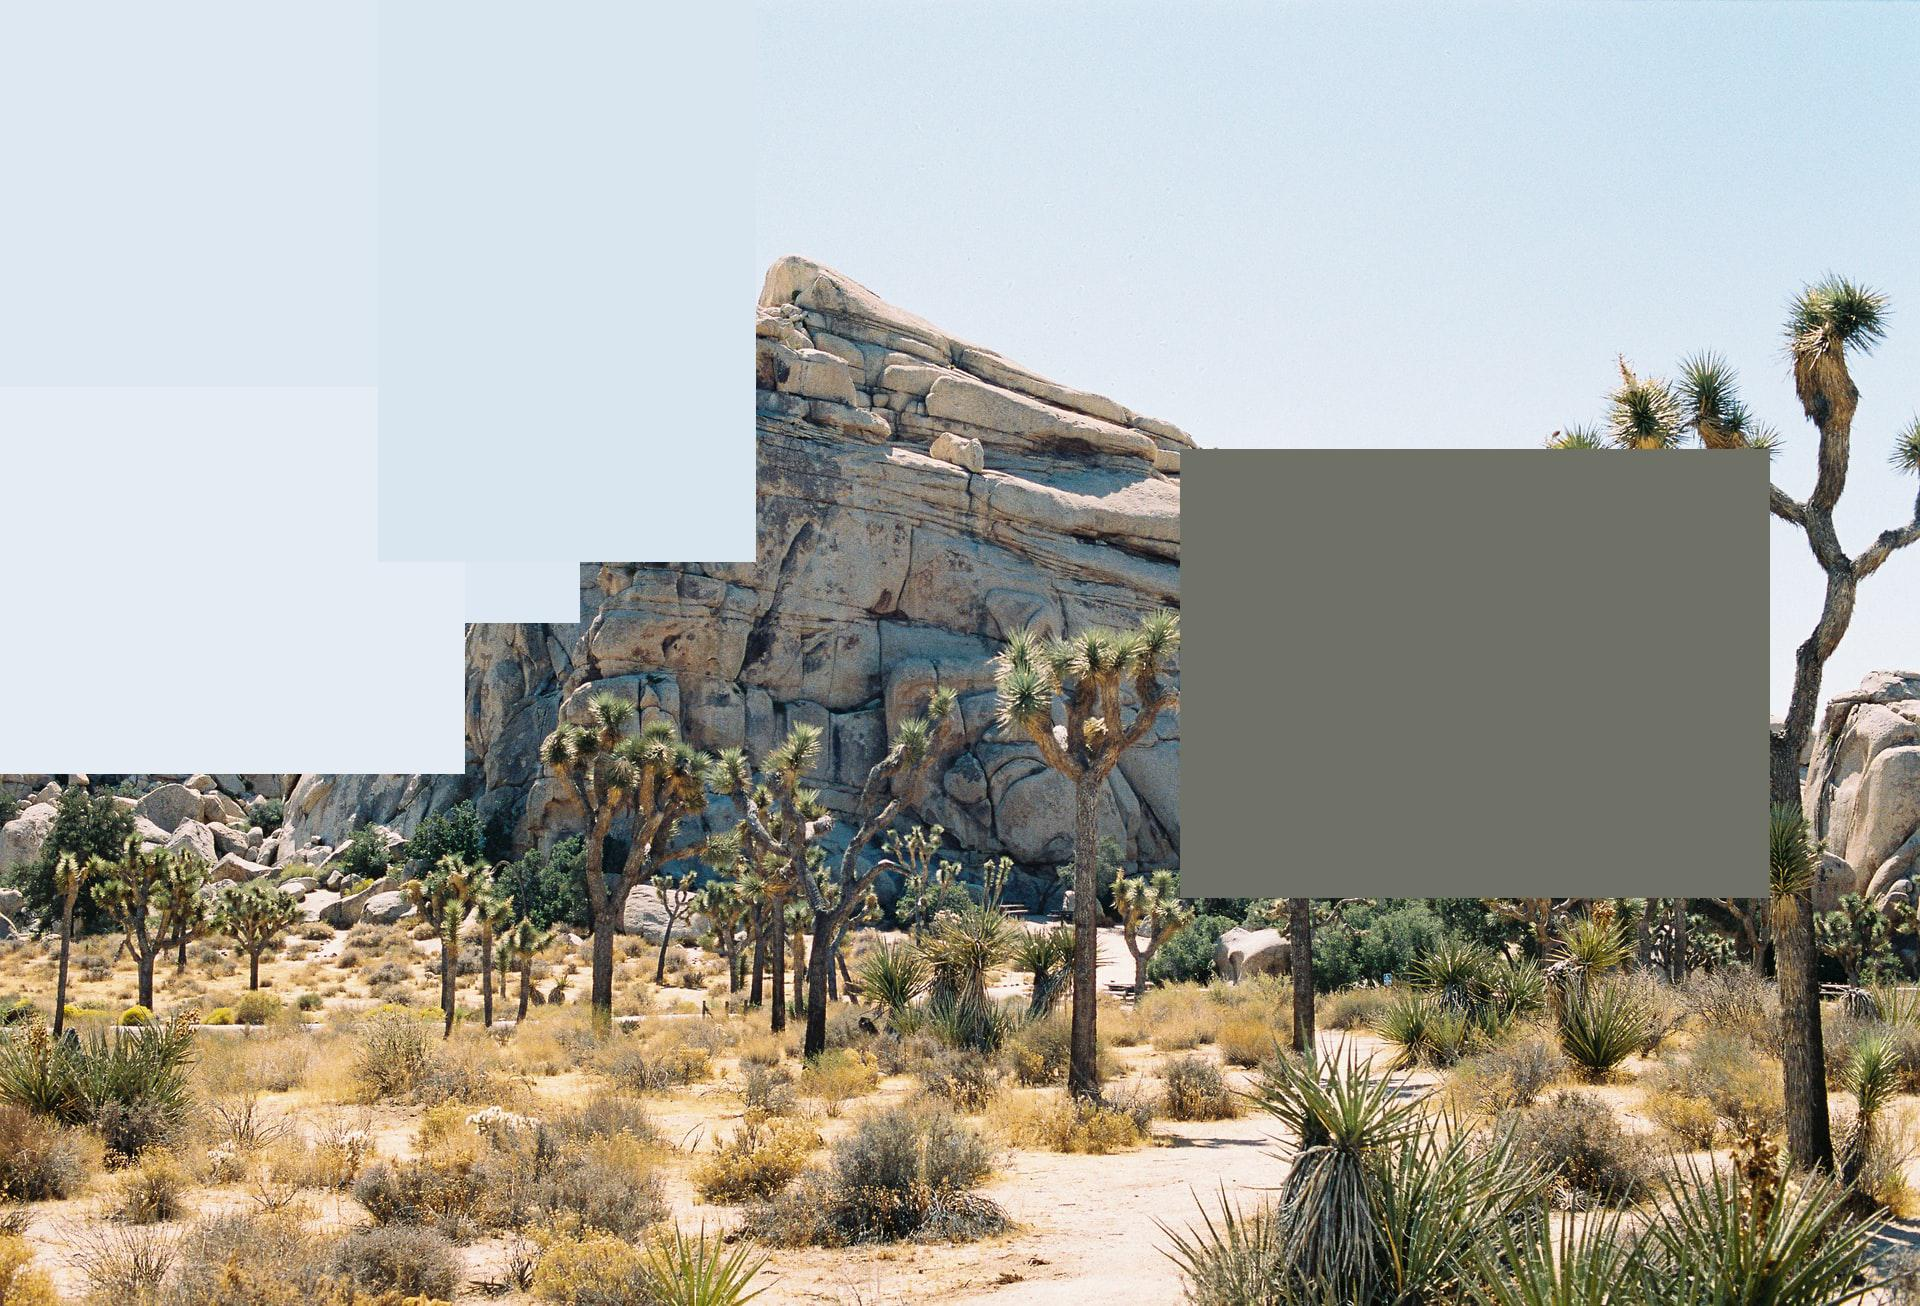
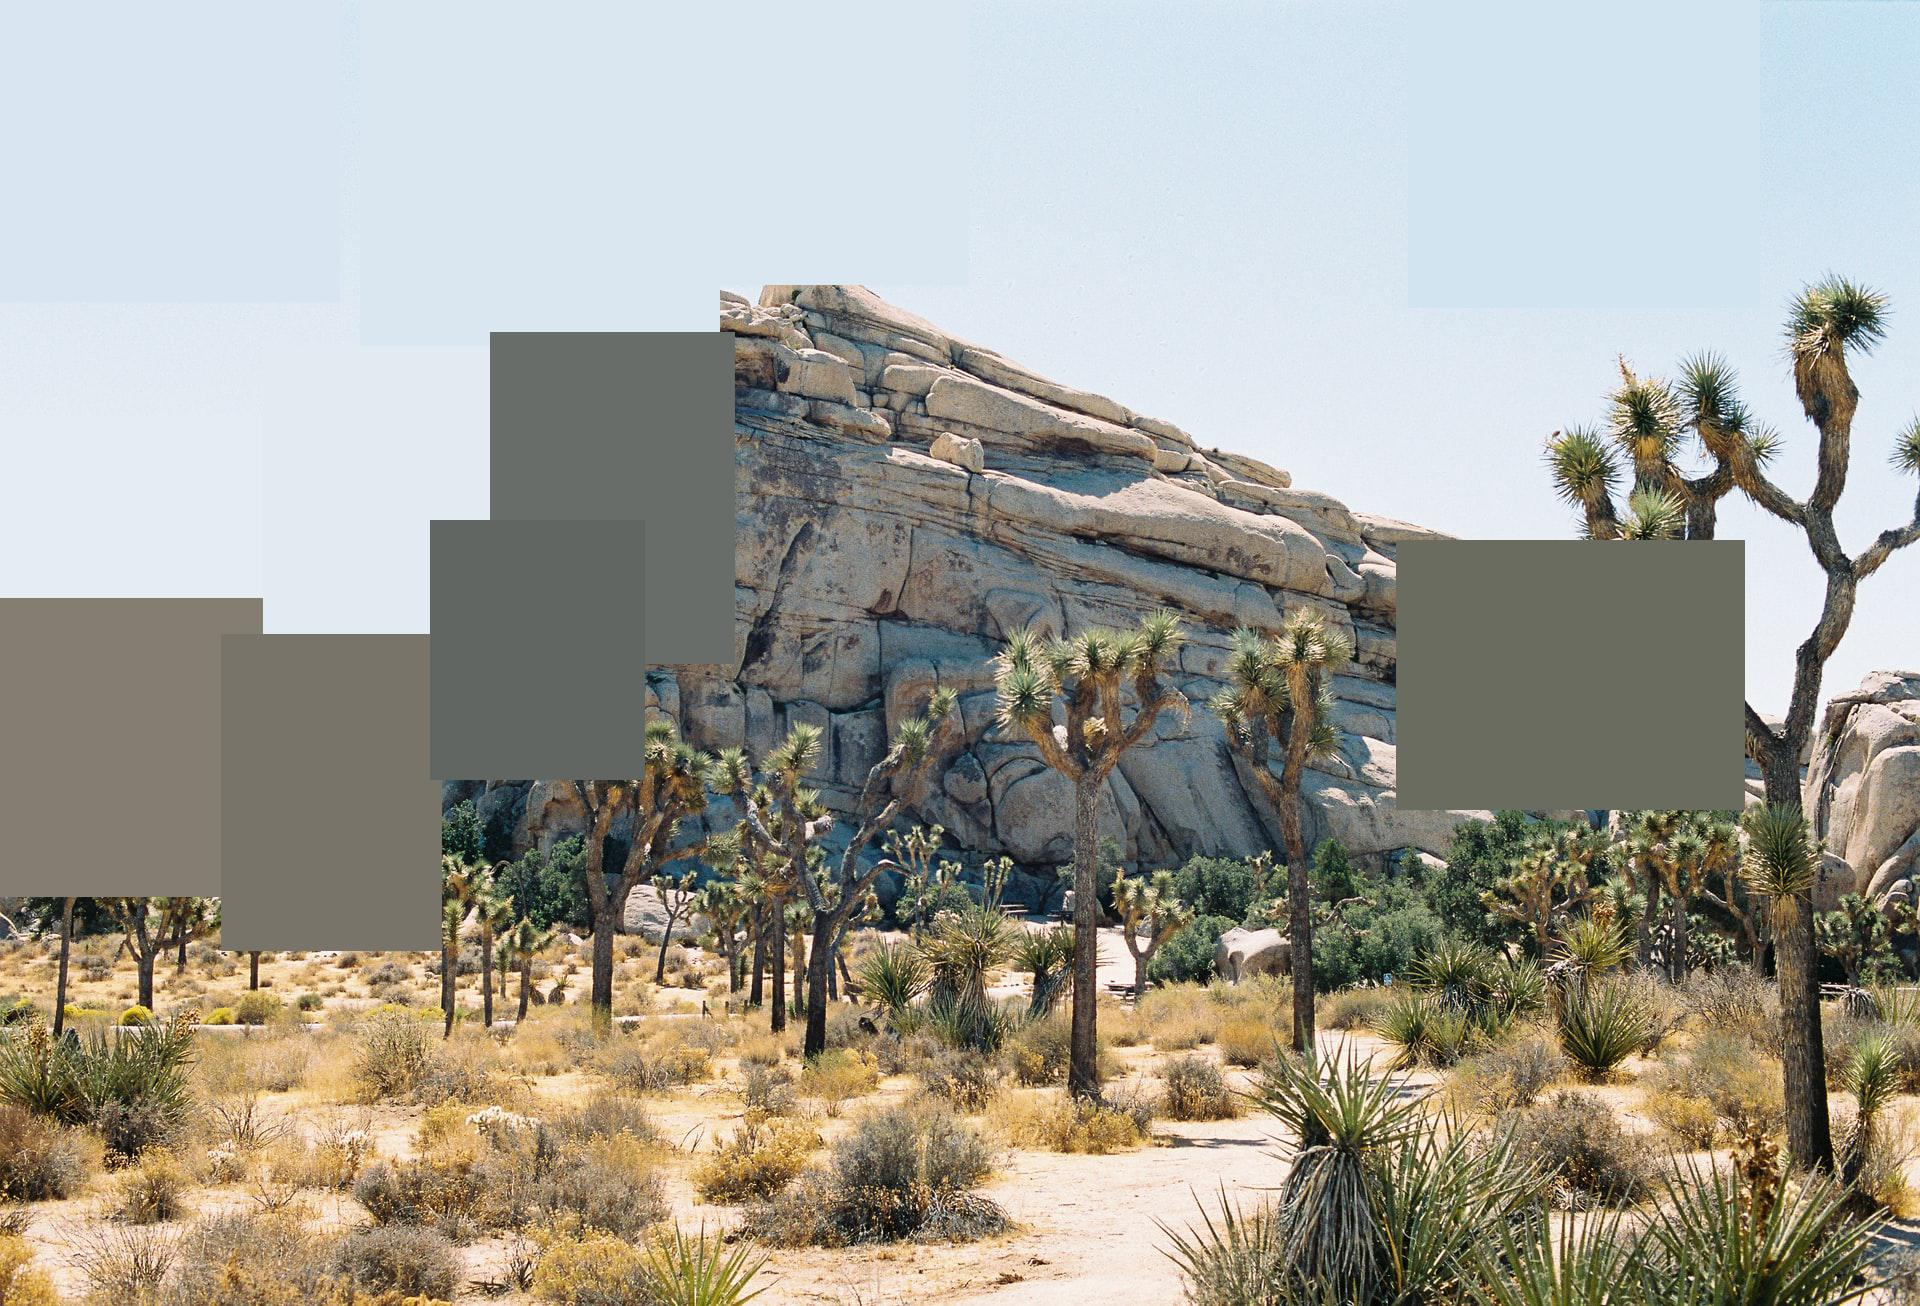
updated with arg parse and example

Changed region(s): [[0.0, 0.1838, 0.4375, 0.7351], [0.5938, 0.3369, 0.9375, 0.7044]]

diff --git a/img_generator.py b/img_generator.py
@@ -3,6 +3,20 @@ import requests
 from io import BytesIO
 import numpy as np
 from random import random
+import argparse
+import sys
+
+parser = argparse.ArgumentParser(description='Minimal example of dumping args into log file.')
+parser.add_argument('--img_url',type=str, default="https://source.unsplash.com/iXp4yp8A9Tw/1920x1306",
+                    help='Horizontal step length')
+parser.add_argument('--h_len',type=int, default=5,
+                    help='Horizontal step length')
+parser.add_argument('--v_len',type=int, default=5,
+                    help='Vertical step length')
+
+
+args = parser.parse_args()
+
 
 class Canvas:
     def __init__(self, img):
@@ -45,11 +59,15 @@ class Canvas:
 
 
 if __name__ == "__main__":
-    url = "https://source.unsplash.com/iXp4yp8A9Tw/1920x1306"
+    url = args.img_url
+    h_len, v_len = args.h_len, args.v_len
     response = requests.get(url)
-    img = Image.open(BytesIO(response.content))
+    try:
+        img = Image.open(BytesIO(response.content))
+    except:
+        print("Bad URL")
+        sys.exit()
 
     geometric_img = Canvas(np.asarray(img))
-    res_im = geometric_img.generate(h_splits=3, v_splits=2, thresh=.9)
-    print(np.asarray(res_im).shape)
-    res_im.save("outpout." + img.format)
+    res_im = geometric_img.generate(h_splits=h_len, v_splits=v_len, thresh=.9)
+    res_im.save("outpout" + "." + img.format)

diff --git a/readme.md b/readme.md
@@ -3,3 +3,7 @@
 Look at an image. Make it minimal. 
 
 Live, laugh, love. 
+
+
+## Example run:
+`python img_generator.py --img_url=https://source.unsplash.com/iXp4yp8A9Tw/1920x1306 --h_len=5 --v_len=3`
